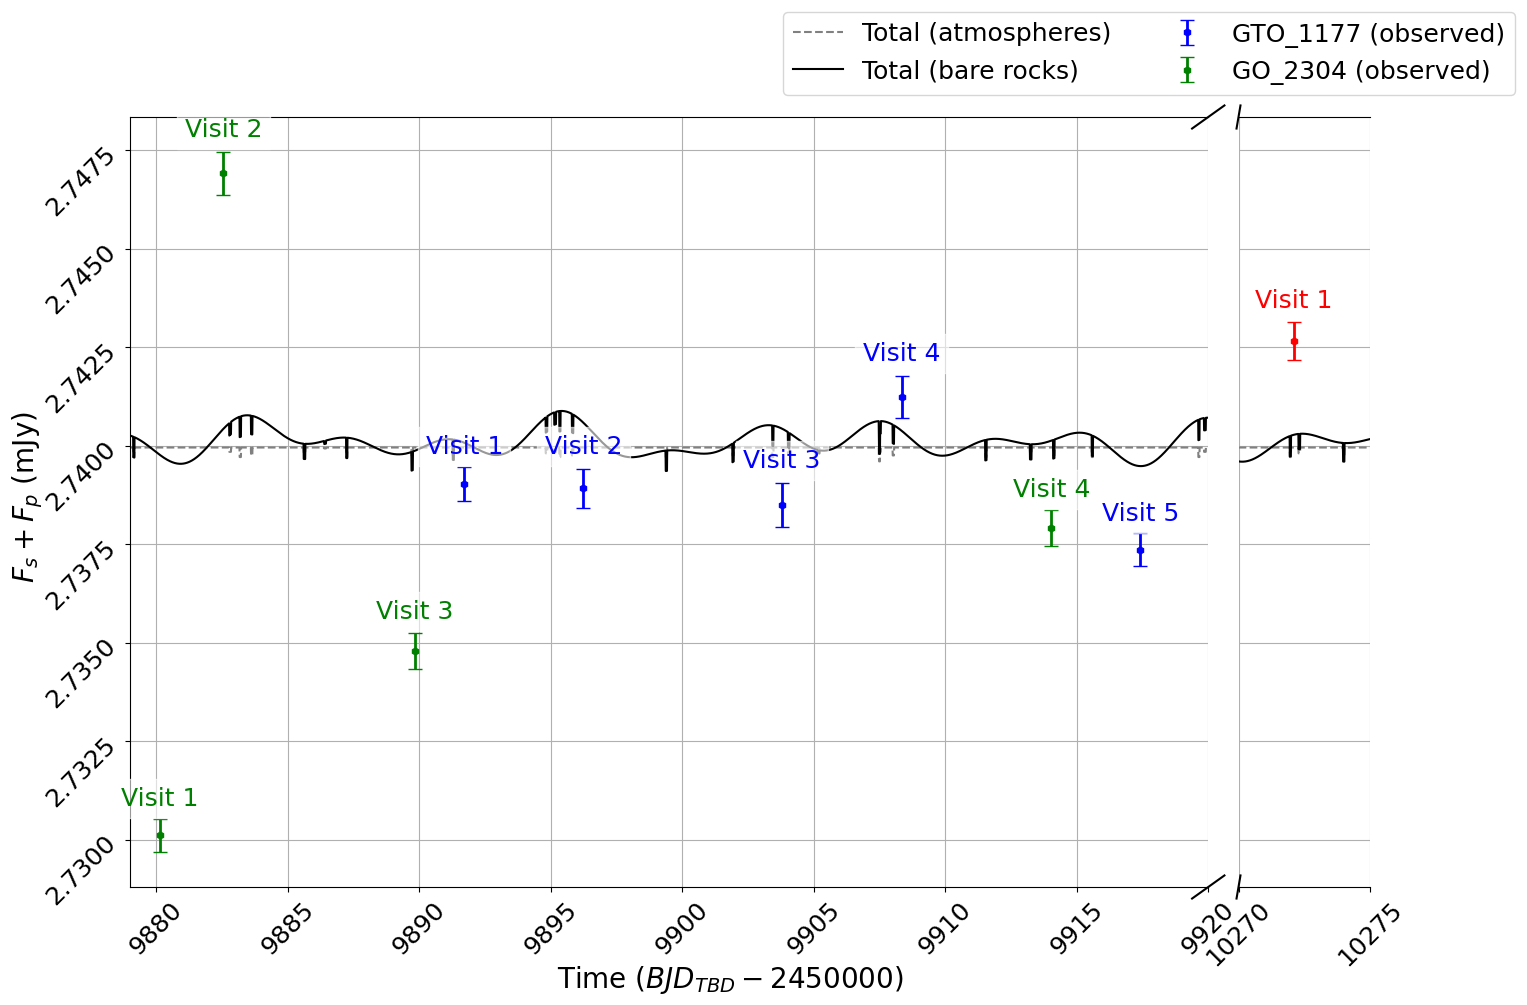
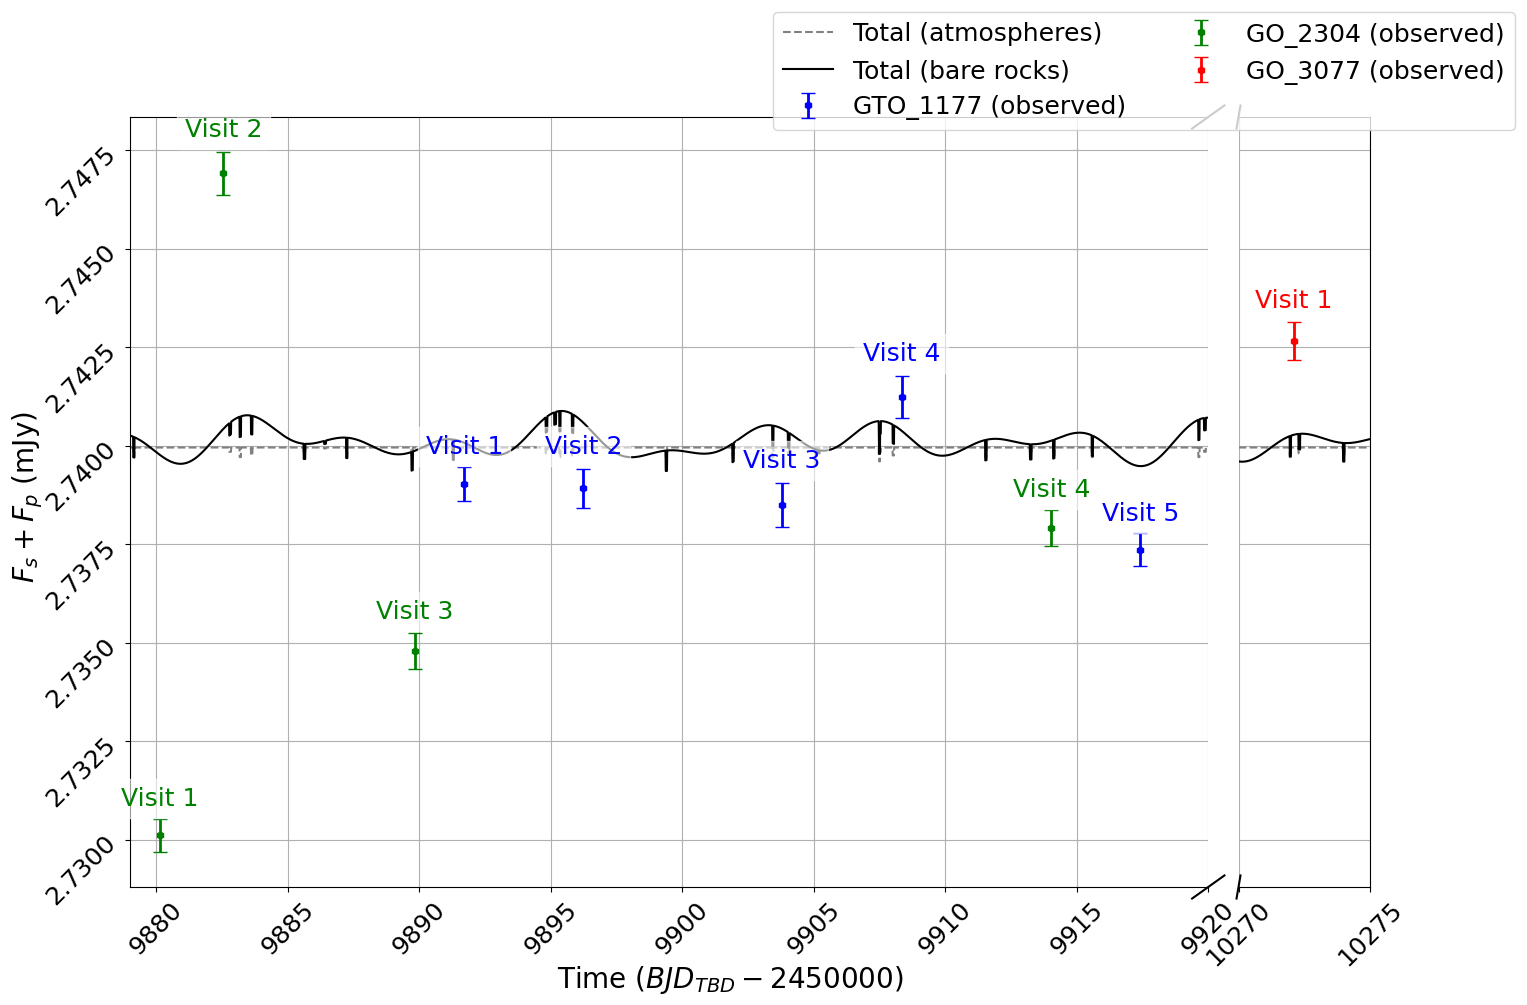
Fixed bugs in plots

Changed region(s): [[0.5232, 0.0, 0.7387, 0.1234], [0.7695, 0.0, 0.9849, 0.1234]]

diff --git a/Code_files/JWST_Obs_plot.py b/Code_files/JWST_Obs_plot.py
@@ -54,11 +54,13 @@ save_plots = False # Write True if you want to save the plots
 
 do_simulation = False # Write True if the simulation hasn't been done yet
 
-plot_individual_planets = True # Write True if you want to plot the individual planets as bare rocks to see their phases
+plot_individual_planets = False # Write True if you want to plot the individual planets as bare rocks to see their phases
 
-comparison = False # Write True if you want to compare the bare rock and thick atmosphere cases
+comparison = True # Write True if you want to compare the bare rock and thick atmosphere cases
 
-plot_obs_points = False # Write True if you want to plot the observations points (in mJy) on the phase curves
+plot_obs_curves = False # Write True if you want to plot the curve to show the observations times
+
+plot_obs_points = True # Write True if you want to plot the observations points (in mJy) on the phase curves
 
 points_offset = True # Write True if you want to add an offset to the observation points to place them closer to the phase curves (useful if the observations are too far from the phase curves)
 
@@ -148,7 +150,7 @@ else:
 
 if comparison:
     t_total_simu_atm, phase_curve_total_simu_atm = np.loadtxt(Code_files_DIR / "Phase_curve_TTV_output" / f"phase_curve_total_{planets}_atm_{filter}_{model}_{unit}_{t0}.txt", delimiter=",",skiprows=1, unpack=True)
-    plt.plot(t_total_simu_atm, phase_curve_total_simu_atm, color='black', label="Total (atmospheres)")
+    plt.plot(t_total_simu_atm, phase_curve_total_simu_atm, '--', color='grey', label="Total (atmospheres)")
 
 colors = ['blue', 'orange', 'green', 'red', 'purple', 'brown', 'pink']
 j = -1
@@ -176,7 +178,8 @@ for i in range(len(t_start)):
 
     if i == 0 or program_ID[i] != program_ID[i-1]:
         j+=1
-        # plt.plot(t_visit, phase_curve_total_visit, color = colors[j], label=program_ID[i], linewidth=3)
+        if plot_obs_curves:
+            plt.plot(t_visit, phase_curve_total_visit, color = colors[j], label=program_ID[i], linewidth=3)
         if plot_obs_points and filter_obs[i]==filter and flux_obs[i] != np.nan:
             if points_offset and program_ID[i] == 'GTO_1279':
                 if model == "phoenix":
@@ -203,7 +206,8 @@ for i in range(len(t_start)):
             plt.errorbar(np.mean(t_visit), flux_obs[i]+offset, yerr=err_obs[i], fmt='h', color=colors[j], markersize=5, elinewidth=2, capsize=5, label=program_ID[i]+" (observed)", zorder=10)
             errorbar_data.append((np.mean(t_visit), flux_obs[i]+offset, err_obs[i], dict(fmt='h',color=colors[j], markersize=5, elinewidth=2, capsize=5, label=program_ID[i]+" (observed)", zorder=10)))
     else:
-        # plt.plot(t_visit, phase_curve_total_visit, color = colors[j], linewidth=3)
+        if plot_obs_curves:
+            plt.plot(t_visit, phase_curve_total_visit, color = colors[j], linewidth=3)
         if plot_obs_points and filter_obs[i]==filter and flux_obs[i] != np.nan:
             if points_offset and program_ID[i] == 'GTO_1279':
                 if model == "phoenix":
@@ -228,7 +232,8 @@ for i in range(len(t_start)):
             else:
                 offset = 0
             plt.errorbar(np.mean(t_visit), flux_obs[i]+offset, yerr=err_obs[i], fmt='h', color=colors[j], markersize=5, elinewidth=2, capsize=5, zorder=10)
-            errorbar_data.append((np.mean(t_visit), flux_obs[i]+offset, err_obs[i], dict(fmt='h',color=colors[j], markersize=5, elinewidth=2, capsize=5, zorder=10)))
+            # errorbar_data.append((np.mean(t_visit), flux_obs[i]+offset, err_obs[i], dict(fmt='h',color=colors[j], markersize=5, elinewidth=2, capsize=5, zorder=10)))
+            errorbar_data.append((np.mean(t_visit), flux_obs[i]+offset, err_obs[i], dict(fmt='h',color=colors[j], markersize=5, elinewidth=2, capsize=5, label=program_ID[i]+" (observed)", zorder=10)))
     
     # Add visit label
     if plot_obs_points:
@@ -266,14 +271,15 @@ if save_plots:
     else:
         if plot_obs_points and comparison:
             # plt.savefig("Comparisons_obs_JWST/comparison_obs_"+planets+"_"+filter+"_"+model+"_Oct2022-Dec2024.png", bbox_inches='tight')
-            plt.savefig(Code_files_DIR/"Article_figures/comparison_obs_"+planets+"_"+filter+"_"+model+"_Oct2022-Dec2024.png", bbox_inches='tight') # For article
+            output_path = Code_files_DIR / "Article_figures" / f"comparison_obs_{planets}_{filter}_{model}_Oct2022-Dec2024.png"
+            plt.savefig(output_path, bbox_inches='tight') # For article
         elif redistribution == 1:
-            plt.savefig(Code_files_DIR/"JWST_Obs_plots/JWST_Obs_phase_curves_"+planets+"_atm_"+filter+"_"+model+"_"+unit+"_Oct2022-Dec2024.png", bbox_inches='tight')
+            plt.savefig(Code_files_DIR / "JWST_Obs_plots" / f"JWST_Obs_phase_curves_{planets}_atm_{filter}_{model}_{unit}_Oct2022-Dec2024.png", bbox_inches='tight')
         elif comparison:
             # plt.savefig("Comparisons_bare_rock_atm/comparison_"+planets+"_"+filter+"_"+model+"_"+unit+"_Oct2022-Dec2024.png", bbox_inches='tight')
-            plt.savefig(Code_files_DIR/"Article_figures/comparison_"+planets+"_"+filter+"_"+model+"_"+unit+"_Oct2022-Dec2024.png", bbox_inches='tight') # For article
+            plt.savefig(Code_files_DIR / "Article_figures" / f"comparison_{planets}_{filter}_{model}_{unit}_Oct2022-Dec2024.png", bbox_inches='tight') # For article
         else:
-            plt.savefig(Code_files_DIR/"JWST_Obs_plots/JWST_Obs_phase_curves_"+planets+"_"+filter+"_"+model+"_"+unit+"_Oct2022-Dec2024.png", bbox_inches='tight')
+            plt.savefig(Code_files_DIR / "JWST_Obs_plots" / f"JWST_Obs_phase_curves_{planets}_{filter}_{model}_{unit}_Oct2022-Dec2024.png", bbox_inches='tight')
 
 lines = plt.gca().get_lines()
 texts = plt.gca().texts
@@ -345,15 +351,23 @@ for i in range(len(axes)-1):
     axes[i+1].plot((-d, +d), (1-d, 1+d), **kwargs)
 
 # Add dummy points for errorbar legend entries
-if plot_obs_points:
-    for (_, _, _, fmt) in errorbar_data:
-        label = fmt.get("label")
-        if label:  # only once per label
-            axes[0].plot([], [], fmt['fmt'], color=fmt['color'], label=label)
-            fmt["label"] = None  # prevent duplicates
+# if plot_obs_points:
+#     for (_, _, _, fmt) in errorbar_data:
+#         label = fmt.get("label")
+#         if label:  # only once per label
+#             axes[0].plot([], [], fmt['fmt'], color=fmt['color'], label=label)
+#             fmt["label"] = None  # prevent duplicates
 
 
-handles, labels = axes[0].get_legend_handles_labels()
+# handles, labels = axes[0].get_legend_handles_labels()
+
+handles, labels = [], []
+for ax in axes:
+    h, l = ax.get_legend_handles_labels()
+    for handle, label in zip(h, l):
+        if label not in labels and not label.startswith('_'):
+            handles.append(handle)
+            labels.append(label)
 
 if plot_obs_points == False:
     fig.legend(handles, labels, loc='upper right',  ncols = 2)
@@ -385,13 +399,14 @@ if save_plots:
     else:
         if plot_obs_points and comparison:
             # plt.savefig("Comparisons_obs_JWST/comparison_obs_"+planets+"_"+filter+"_"+model+"_Oct2022-Dec2024_zoom.png", bbox_inches='tight')
-            plt.savefig(Code_files_DIR/"Article_figures/comparison_obs_"+planets+"_"+filter+"_"+model+"_Oct2022-Dec2024_zoom.png", bbox_inches='tight') # For article
+            output_path = Code_files_DIR / "Article_figures" / f"comparison_obs_{planets}_{filter}_{model}_Oct2022-Dec2024_zoom.png"
+            plt.savefig(output_path, bbox_inches='tight') # For article
         elif redistribution == 1:
-            plt.savefig(Code_files_DIR/"JWST_Obs_plots/JWST_Obs_phase_curves_"+planets+"_atm_"+filter+"_"+model+"_"+unit+"_Oct2022-Dec2024_zoom.png", bbox_inches='tight')
+            plt.savefig(Code_files_DIR / "JWST_Obs_plots" / f"JWST_Obs_phase_curves_{planets}_atm_{filter}_{model}_{unit}_Oct2022-Dec2024_zoom.png", bbox_inches='tight')
         elif comparison:
             # plt.savefig("Comparisons_bare_rock_atm/comparison_"+planets+"_"+filter+"_"+model+"_"+unit+"_Oct2022-Dec2024_zoom.png", bbox_inches='tight')
-            plt.savefig(Code_files_DIR/"Article_figures/comparison_"+planets+"_"+filter+"_"+model+"_"+unit+"_Oct2022-Dec2024_zoom.png", bbox_inches='tight') # For article
+            plt.savefig(Code_files_DIR / "Article_figures" / f"comparison_{planets}_{filter}_{model}_{unit}_Oct2022-Dec2024_zoom.png", bbox_inches='tight') # For article
         else:
-            plt.savefig(Code_files_DIR/"JWST_Obs_plots/JWST_Obs_phase_curves_"+planets+"_"+filter+"_"+model+"_"+unit+"_Oct2022-Dec2024_zoom.png", bbox_inches='tight')
+            plt.savefig(Code_files_DIR / "JWST_Obs_plots" / f"JWST_Obs_phase_curves_{planets}_{filter}_{model}_{unit}_Oct2022-Dec2024_zoom.png", bbox_inches='tight')
 
 plt.show()
